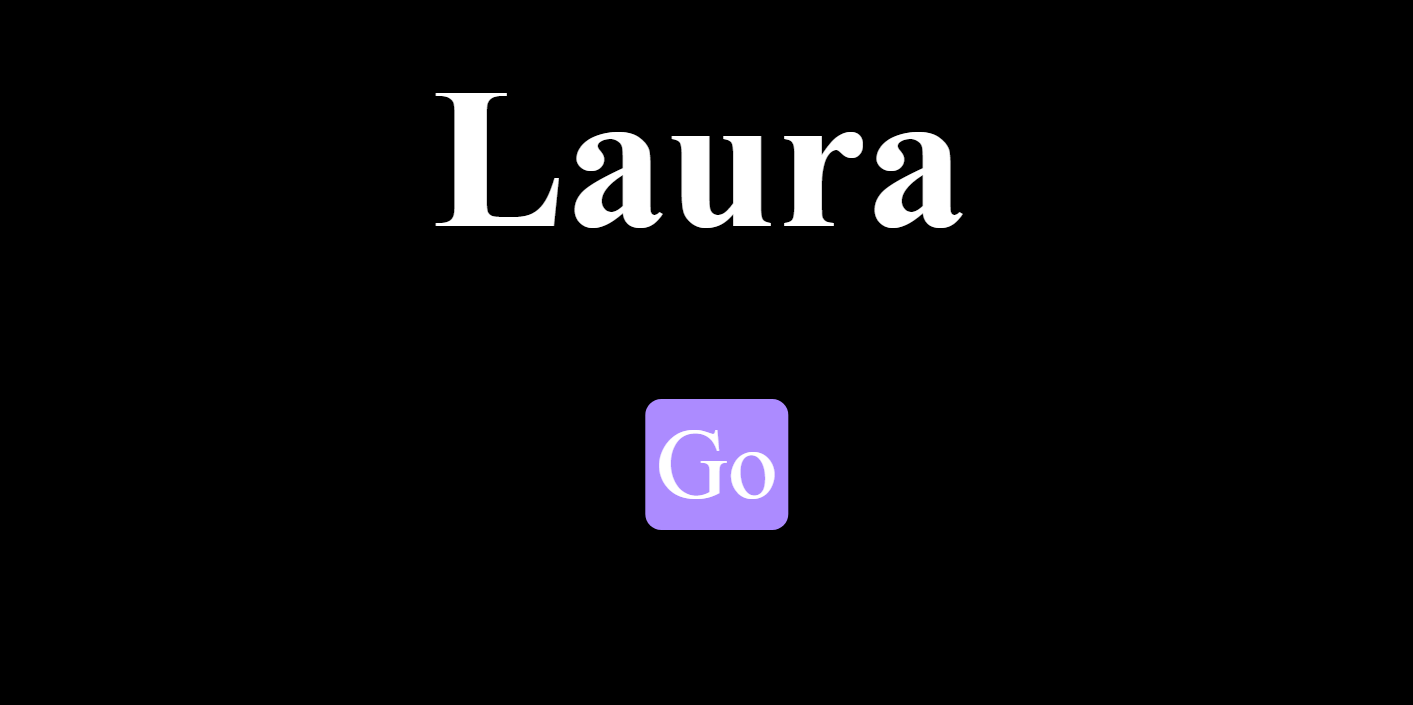
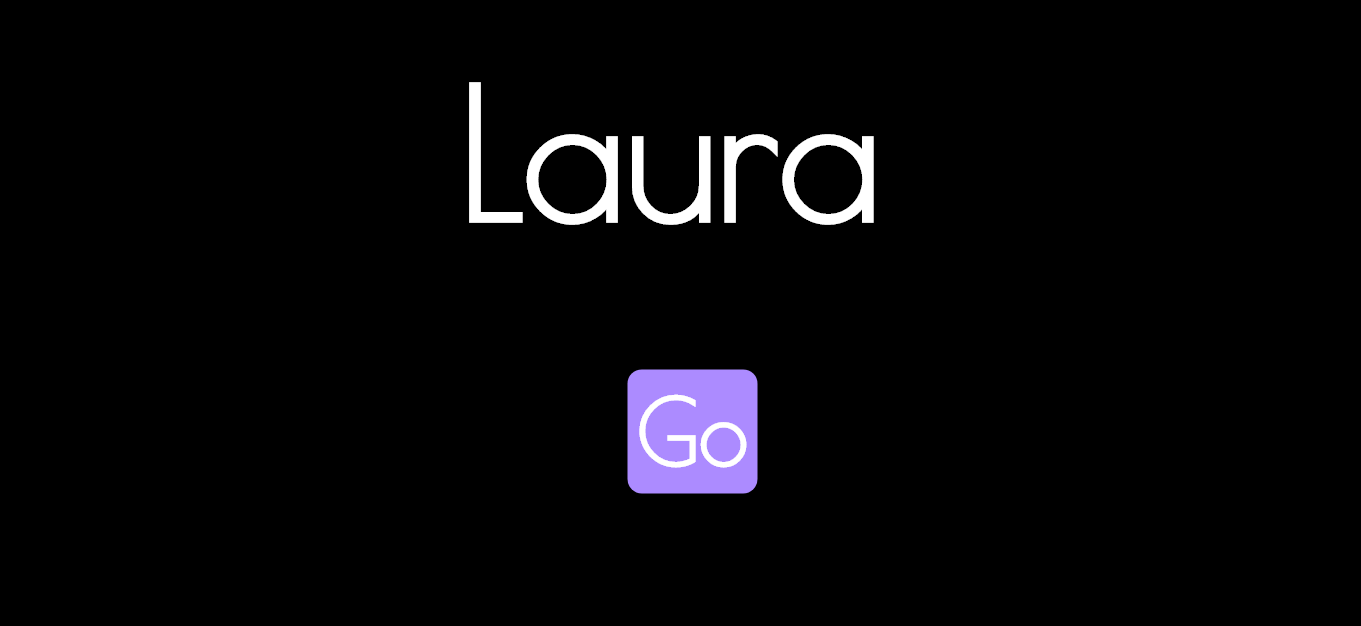
css shit

Changed region(s): [[0.3086, 0.1214, 0.6789, 0.3642], [0.432, 0.5463, 0.5555, 0.7891]]

diff --git a/index.html b/index.html
@@ -3,6 +3,7 @@
 <head>
 	<title>Laura</title>
 	<script src="http://code.jquery.com/jquery-3.3.1.min.js"></script>
+	<link href='https://fonts.googleapis.com/css?family=Poiret+One' rel='stylesheet' type='text/css'>
 </head>
 <style type="text/css">
 	body{
@@ -25,9 +26,12 @@
 	    border-radius: 16px;
 	    padding: 10px;
 	    color: #ffffff;
+	    font-family: 'Poiret One', cursive;
+	    font-weight: bold;
 	}
 	#title{
 		color: #ffffff;
+		font-family: 'Poiret One', cursive;
 	}
 	.footer {
 		font-size: 30px;
